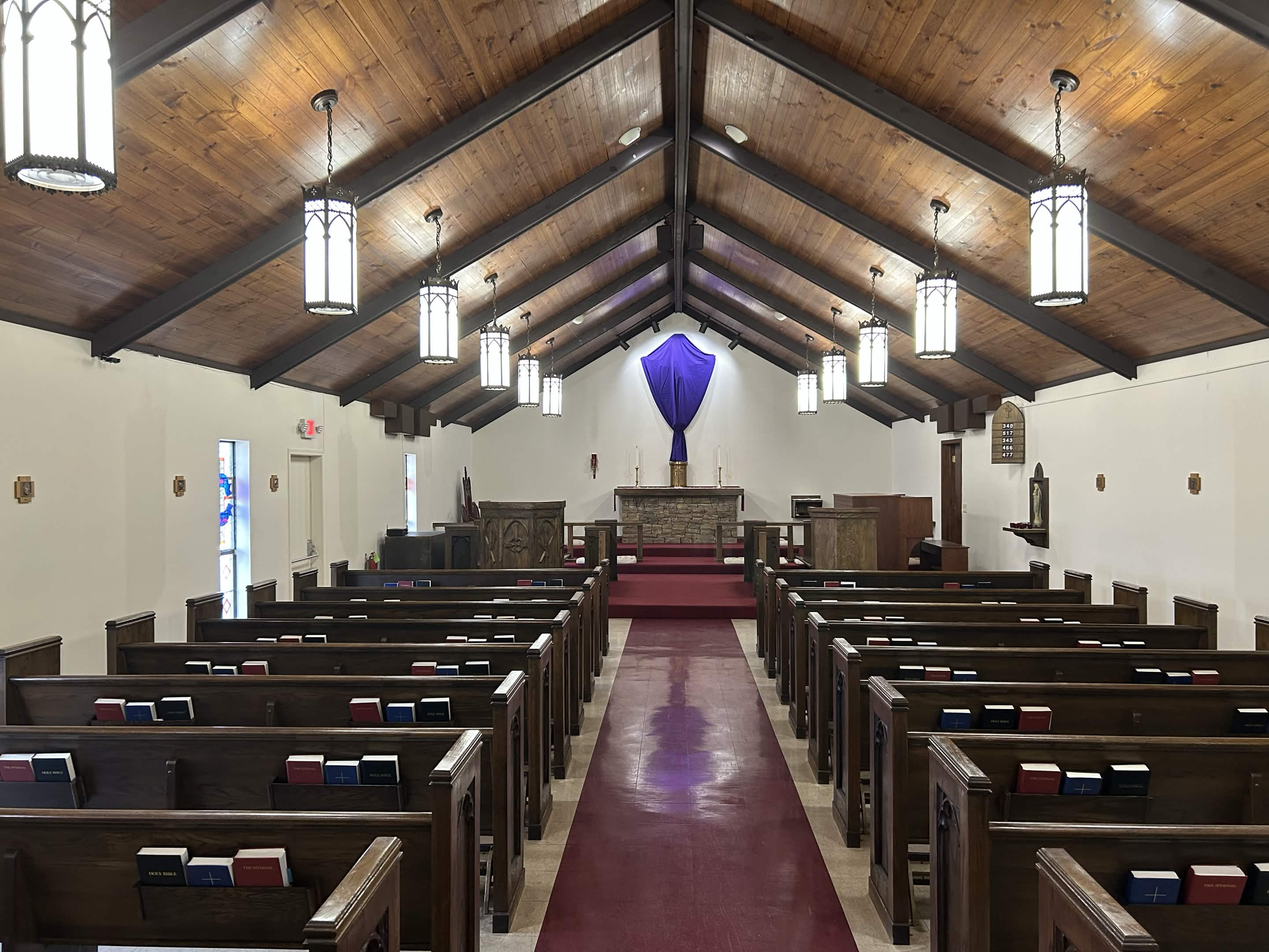
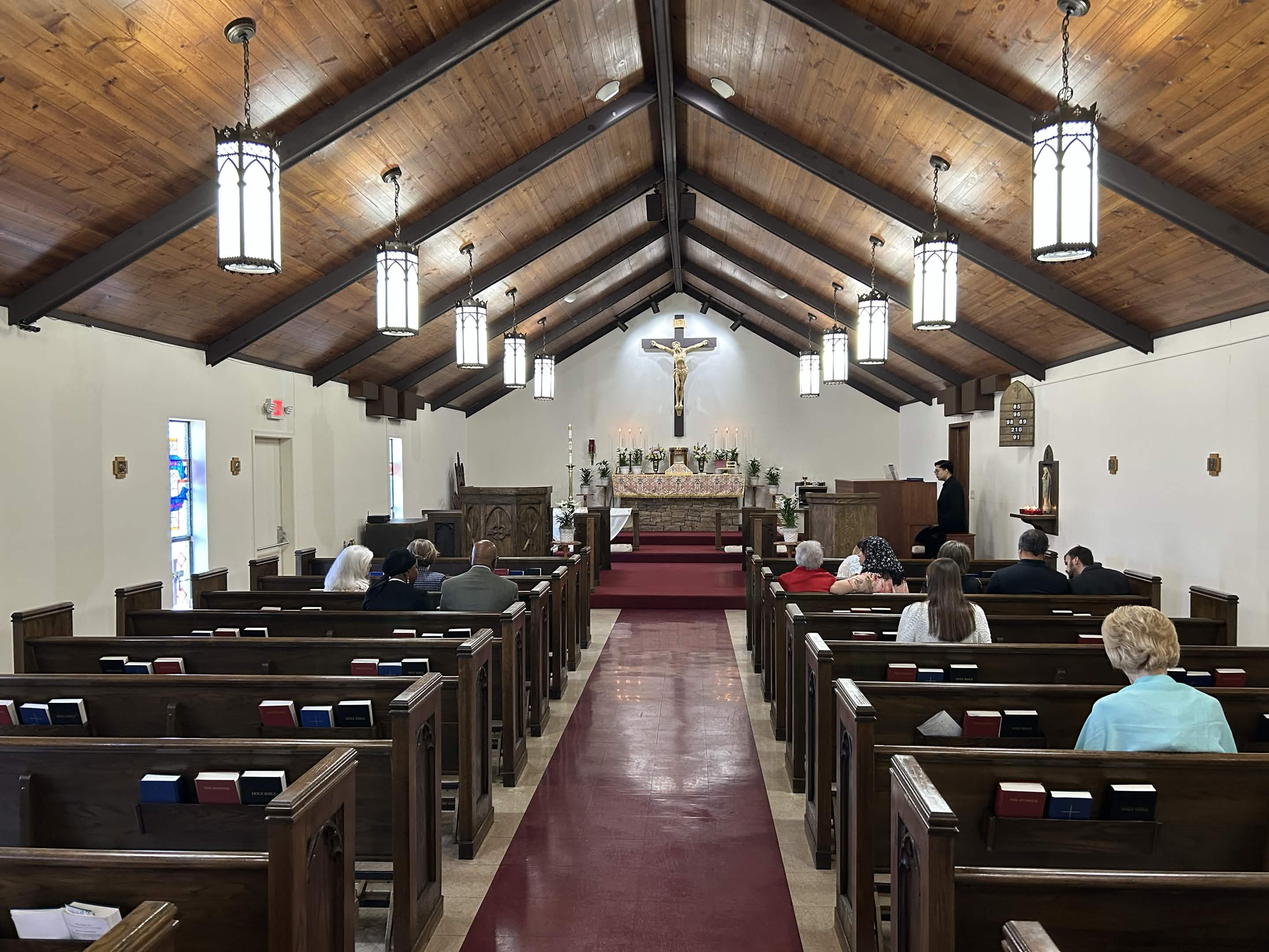
add(spaces): The spaces and things descriptions added

diff --git a/src/views/Worship.vue b/src/views/Worship.vue
@@ -172,13 +172,9 @@ import veiled_crux from '../assets/the_space/veiled_crucifix.jpg'
         <div class="space-title">The Sanctuary</div>
         <v-divider></v-divider>
         <div class="sacra-text">
-          Communion (aka the Eucharist) is the central act of 
-          Christian worship, in which Christ is truly 
-          present under the forms of bread and wine. 
-          In receiving Holy Communion, believers are 
-          nourished spiritually and drawn into deeper 
-          union with Christ and one another. We begin our liturgy
-          of the Eucharist (aka the Mass) at 10AM on Sundays.
+          The Sanctuary is where we gather to participate in worship together. It is supposed to reflect both the throneroom of heaven and
+          the Temple (as well as Tabernacle) that God had the Israelites build for Him. The Sanctuary faces East because Christ will return
+          from the East.
         </div>
       </v-col>
   </v-row>
@@ -190,13 +186,11 @@ import veiled_crux from '../assets/the_space/veiled_crucifix.jpg'
       <div class="space-title">The Holy Water Font</div>
       <v-divider></v-divider>
       <div class="sacra-text">
-        Communion (aka the Eucharist) is the central act of 
-        Christian worship, in which Christ is truly 
-        present under the forms of bread and wine. 
-        In receiving Holy Communion, believers are 
-        nourished spiritually and drawn into deeper 
-        union with Christ and one another. We begin our liturgy
-        of the Eucharist (aka the Mass) at 10AM on Sundays.
+        The Font is to the right of the door as you enter into the sanctuary. It is the first thing you interact with
+        as you enter. We dip our fingers of our right hand in the font and do the sign of the cross over ourselves. This
+        reminds us of our baptism as we come to worship Christ. It also reflects the ritual washing for Israelites who 
+        came to the temple to worship. When we leave the sanctuary we do it again to remember our baptism as we return into
+        the world.
       </div>
     </v-col>
   </v-row>
@@ -208,13 +202,9 @@ import veiled_crux from '../assets/the_space/veiled_crucifix.jpg'
       <div class="space-title">The Baptistry</div>
       <v-divider></v-divider>
       <div class="sacra-text">
-        Communion (aka the Eucharist) is the central act of 
-        Christian worship, in which Christ is truly 
-        present under the forms of bread and wine. 
-        In receiving Holy Communion, believers are 
-        nourished spiritually and drawn into deeper 
-        union with Christ and one another. We begin our liturgy
-        of the Eucharist (aka the Mass) at 10AM on Sundays.
+        The Baptistry is where the sacrament of baptism takes place. This one can be
+        moved around for ease of use to the parish. It remains on the epistle side (the north side) of the church
+        when not in use.
       </div>
     </v-col>
   </v-row>
@@ -226,13 +216,10 @@ import veiled_crux from '../assets/the_space/veiled_crucifix.jpg'
         <div class="space-title">The Stations of the Cross</div>
         <v-divider></v-divider>
         <div class="sacra-text">
-          Communion (aka the Eucharist) is the central act of 
-          Christian worship, in which Christ is truly 
-          present under the forms of bread and wine. 
-          In receiving Holy Communion, believers are 
-          nourished spiritually and drawn into deeper 
-          union with Christ and one another. We begin our liturgy
-          of the Eucharist (aka the Mass) at 10AM on Sundays.
+          Hanging on the wall around the whole sanctuary are 14 images depicting
+          the struggle of Christ from the night he was betrayed to the moment he was
+          crucified. Every year during lent (the season before Easter) we walk these 14
+          stations of the cross with Christ, praying at each stop.
         </div>
       </v-col>
   </v-row>
@@ -241,16 +228,14 @@ import veiled_crux from '../assets/the_space/veiled_crucifix.jpg'
       <v-img :src="mary_altar" class="space-img"/>
     </v-col>
     <v-col col="auto">
-      <div class="space-title">The Altar of Mary</div>
+      <div class="space-title">Votives for Mary</div>
       <v-divider></v-divider>
       <div class="sacra-text">
-        Communion (aka the Eucharist) is the central act of 
-        Christian worship, in which Christ is truly 
-        present under the forms of bread and wine. 
-        In receiving Holy Communion, believers are 
-        nourished spiritually and drawn into deeper 
-        union with Christ and one another. We begin our liturgy
-        of the Eucharist (aka the Mass) at 10AM on Sundays.
+        On the Epistle side of the sanctuary (the north side) on the wall before the altar, there is 
+        a statue of the Blessed Virgin Mary, Mother of God. Oil lights are set before the icon to be lit
+        for the prayer and contemplation. In this depiction, Our Lady stands on the moon which references
+        the queen of heaven and she holds the infant Christ which reflects the queen of heaven in the Book
+        of the Revelation of Saint John, chapter 12.
       </div>
     </v-col>
   </v-row>
@@ -262,13 +247,11 @@ import veiled_crux from '../assets/the_space/veiled_crucifix.jpg'
       <div class="space-title">The Bishop's Chair</div>
       <v-divider></v-divider>
       <div class="sacra-text">
-        Communion (aka the Eucharist) is the central act of 
-        Christian worship, in which Christ is truly 
-        present under the forms of bread and wine. 
-        In receiving Holy Communion, believers are 
-        nourished spiritually and drawn into deeper 
-        union with Christ and one another. We begin our liturgy
-        of the Eucharist (aka the Mass) at 10AM on Sundays.
+        By the altar on the Gospel side (the south side) there are a few seats, the most
+        ornate of which is the chair of the bishop. This chair is especially reserved for him.
+        In the early church, the bishop presided over every eucharistic liturgy -- representing
+        the Father and the Lamb of God on the throne in the heavenly worship. Now, out of practicality
+        the bishop cannot preside over every mass, but his throne remains for when his is with us.
       </div>
     </v-col>
   </v-row>
@@ -280,13 +263,10 @@ import veiled_crux from '../assets/the_space/veiled_crucifix.jpg'
       <div class="space-title">The Sanctuary Lamp</div>
       <v-divider></v-divider>
       <div class="sacra-text">
-        Communion (aka the Eucharist) is the central act of 
-        Christian worship, in which Christ is truly 
-        present under the forms of bread and wine. 
-        In receiving Holy Communion, believers are 
-        nourished spiritually and drawn into deeper 
-        union with Christ and one another. We begin our liturgy
-        of the Eucharist (aka the Mass) at 10AM on Sundays.
+        The Sanctuary Lamp is lit when the blessed sacrament is reserved in the tabernacle
+        at the altar. It is following the teaching of God in Exodus chapter 27. The red lamp
+        represents the presence of Christ. In our sanctuary, it hangs on the wall on the Gospel
+        (left side) of the altar.
       </div>
     </v-col>
   </v-row>
@@ -298,13 +278,11 @@ import veiled_crux from '../assets/the_space/veiled_crucifix.jpg'
       <div class="space-title">The Altar</div>
       <v-divider></v-divider>
       <div class="sacra-text">
-        Communion (aka the Eucharist) is the central act of 
-        Christian worship, in which Christ is truly 
-        present under the forms of bread and wine. 
-        In receiving Holy Communion, believers are 
-        nourished spiritually and drawn into deeper 
-        union with Christ and one another. We begin our liturgy
-        of the Eucharist (aka the Mass) at 10AM on Sundays.
+        The altar is the table of communion with God. It is the focal point of the whole sanctuary.
+        On it, the consecration of the blessed sacrament takes place and the sacrafice of the mass
+        is presented before God. It is a reflection of the altar of the tabernacle, the altar of the temple,
+        the altar of heaven, and the table where Christ shared His last supper with the disciples before His
+        death.
       </div>
     </v-col>
   </v-row>
@@ -316,13 +294,12 @@ import veiled_crux from '../assets/the_space/veiled_crucifix.jpg'
       <div class="space-title">The Altar Crucifix</div>
       <v-divider></v-divider>
       <div class="sacra-text">
-        Communion (aka the Eucharist) is the central act of 
-        Christian worship, in which Christ is truly 
-        present under the forms of bread and wine. 
-        In receiving Holy Communion, believers are 
-        nourished spiritually and drawn into deeper 
-        union with Christ and one another. We begin our liturgy
-        of the Eucharist (aka the Mass) at 10AM on Sundays.
+        The crucifix sits on the east wall just above the altar. It depicts the suffering and dead Christ
+        upon the cross. It draws the mind of the celebrant and the participators of the liturgy to the 
+        sacrafice of Christ on the cross. The inscription "INRI" is the latin characters of the english phrase
+        "Jesus of Nazareth, King of the Jews" which was placed on His cross as a symbol of mockery. The cross, 
+        which was a tool of Roman humiliation and torture, is now the means of hope for humanity by Christs death
+        and resurection. Thus it is the principle symbol of the Christian faith.
       </div>
     </v-col>
   </v-row>
@@ -334,13 +311,9 @@ import veiled_crux from '../assets/the_space/veiled_crucifix.jpg'
       <div class="space-title">The Veiled Crucifix</div>
       <v-divider></v-divider>
       <div class="sacra-text">
-        Communion (aka the Eucharist) is the central act of 
-        Christian worship, in which Christ is truly 
-        present under the forms of bread and wine. 
-        In receiving Holy Communion, believers are 
-        nourished spiritually and drawn into deeper 
-        union with Christ and one another. We begin our liturgy
-        of the Eucharist (aka the Mass) at 10AM on Sundays.
+        During the time of lent and passiontide, the altar crucifix is veiled with purple cloth. At this time, 
+        the altar is stripped (on Maundy Thursday) and no "Alleluias" are said in worship. The veils are removed 
+        for the Easter celebration and the altar is fully adorned again.
       </div>
     </v-col>
   </v-row>

diff --git a/src/views/OurParish.vue b/src/views/OurParish.vue
@@ -103,9 +103,6 @@ const images = Object.values(modules)
       max-width="800"
       class="mx-auto d-block"
     >
-      <div class="text-white overlay-text" style="font-family: 'Times New Roman', Times, serif; text-align: center; font-size: medium; top:5%;">
-       *(Crucifix Veiled for Lent)
-    </div>
   </v-img>
   </div>
 </v-container>
